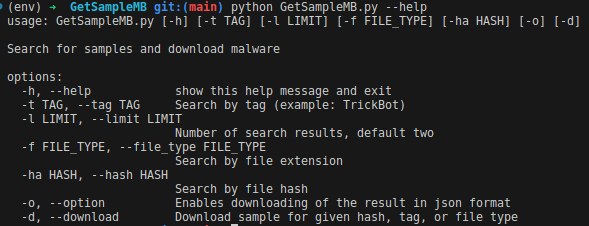
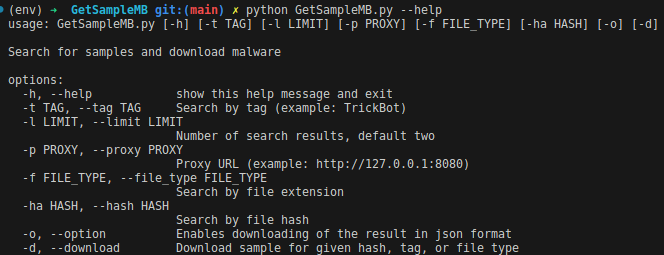
❗ Adicionado a função de proxy nas funções de pesquisa

diff --git a/GetSampleMB.py b/GetSampleMB.py
@@ -3,7 +3,7 @@
 # Date: February 19, 2025
 # Version: v1.0
 
-from requests import post
+from requests import post, exceptions
 from argparse import ArgumentParser
 from os import getenv
 from json import dumps
@@ -14,11 +14,15 @@ from os import getcwd
 from colorama import init, Fore, Back, Style
 from os import makedirs,path
 from zipfile import ZipFile
+import urllib3
+urllib3.disable_warnings(urllib3.exceptions.InsecureRequestWarning)
+
 
 init()
 
 class GetSample():
-    def __init__(self, limit=2, option=False):
+    def __init__(self, limit=2, option=False, proxy=False):
+        self.proxy = proxy
         self.limit = limit
         self.option = option
         self.url = 'https://mb-api.abuse.ch/api/v1/'
@@ -51,6 +55,22 @@ class GetSample():
         """
         print(Fore.GREEN + f'{var}')
 
+    def send_to_proxy(self, data, proxy_url, target_url):   
+
+        proxies = {
+            "http": proxy_url, 
+            "https": proxy_url
+        }
+
+        req = []
+
+        try:
+            req = post(target_url, data=data, headers=self.headers, proxies=proxies, verify=False)
+        except exceptions.RequestException as e:
+            print(f"Erro ao enviar dados para o proxy: {e}")
+
+        return req
+
     def search(self, query_type, query_value):
         print('0 - Define local variables')
         capture_values = {}
@@ -69,9 +89,13 @@ class GetSample():
 
         try:
             print(f'1 - Request to MalwareBaazar for {query_type}')
-            req = post(self.url, data=data, headers=self.headers)
 
-            if req.status_code == 200:
+            if (self.proxy):
+                req = self.send_to_proxy(data, self.proxy, self.url)
+            else:
+                req = post(self.url, data=data, headers=self.headers)
+
+            if req.status_code == 200 and "ok" in req.content.decode():
                 saves = req.json()
                 print('2 - Loop to store the values found')
                 for save in saves.get('data', []):
@@ -151,6 +175,7 @@ def main():
 
     parser.add_argument("-t", "--tag", type=str, help="Search by tag (example: TrickBot)")
     parser.add_argument("-l", "--limit", type=int, default=2, help="Number of search results, default two")
+    parser.add_argument("-p", "--proxy", type=str, help="Proxy URL (example: http://127.0.0.1:8080)")
     parser.add_argument("-f", "--file_type", type=str, help="Search by file extension")
     parser.add_argument("-ha", "--hash", type=str, help="Search by file hash")
     parser.add_argument("-o", "--option", action="store_true", help="Enables downloading of the result in json format")
@@ -158,7 +183,7 @@ def main():
 
     args = parser.parse_args()
 
-    GetSampleObj = GetSample(args.limit, args.option)
+    GetSampleObj = GetSample(args.limit, args.option, args.proxy)
     GetSampleObj.banner()
 
     if args.download:
